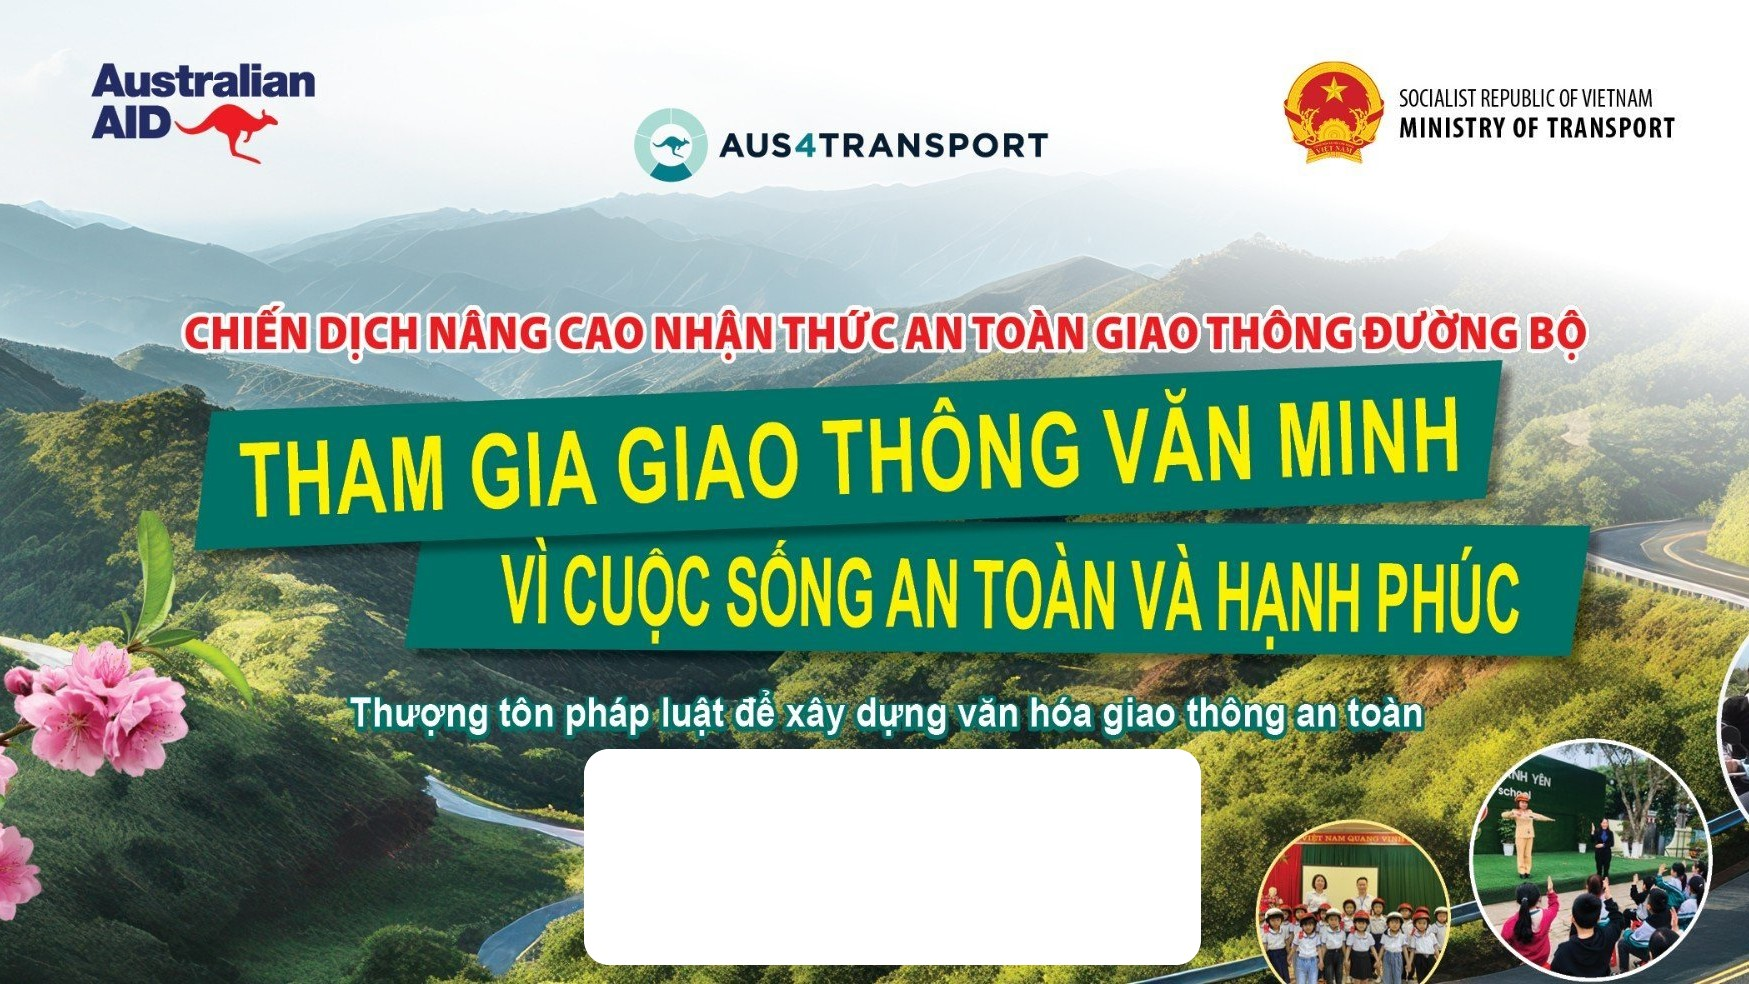
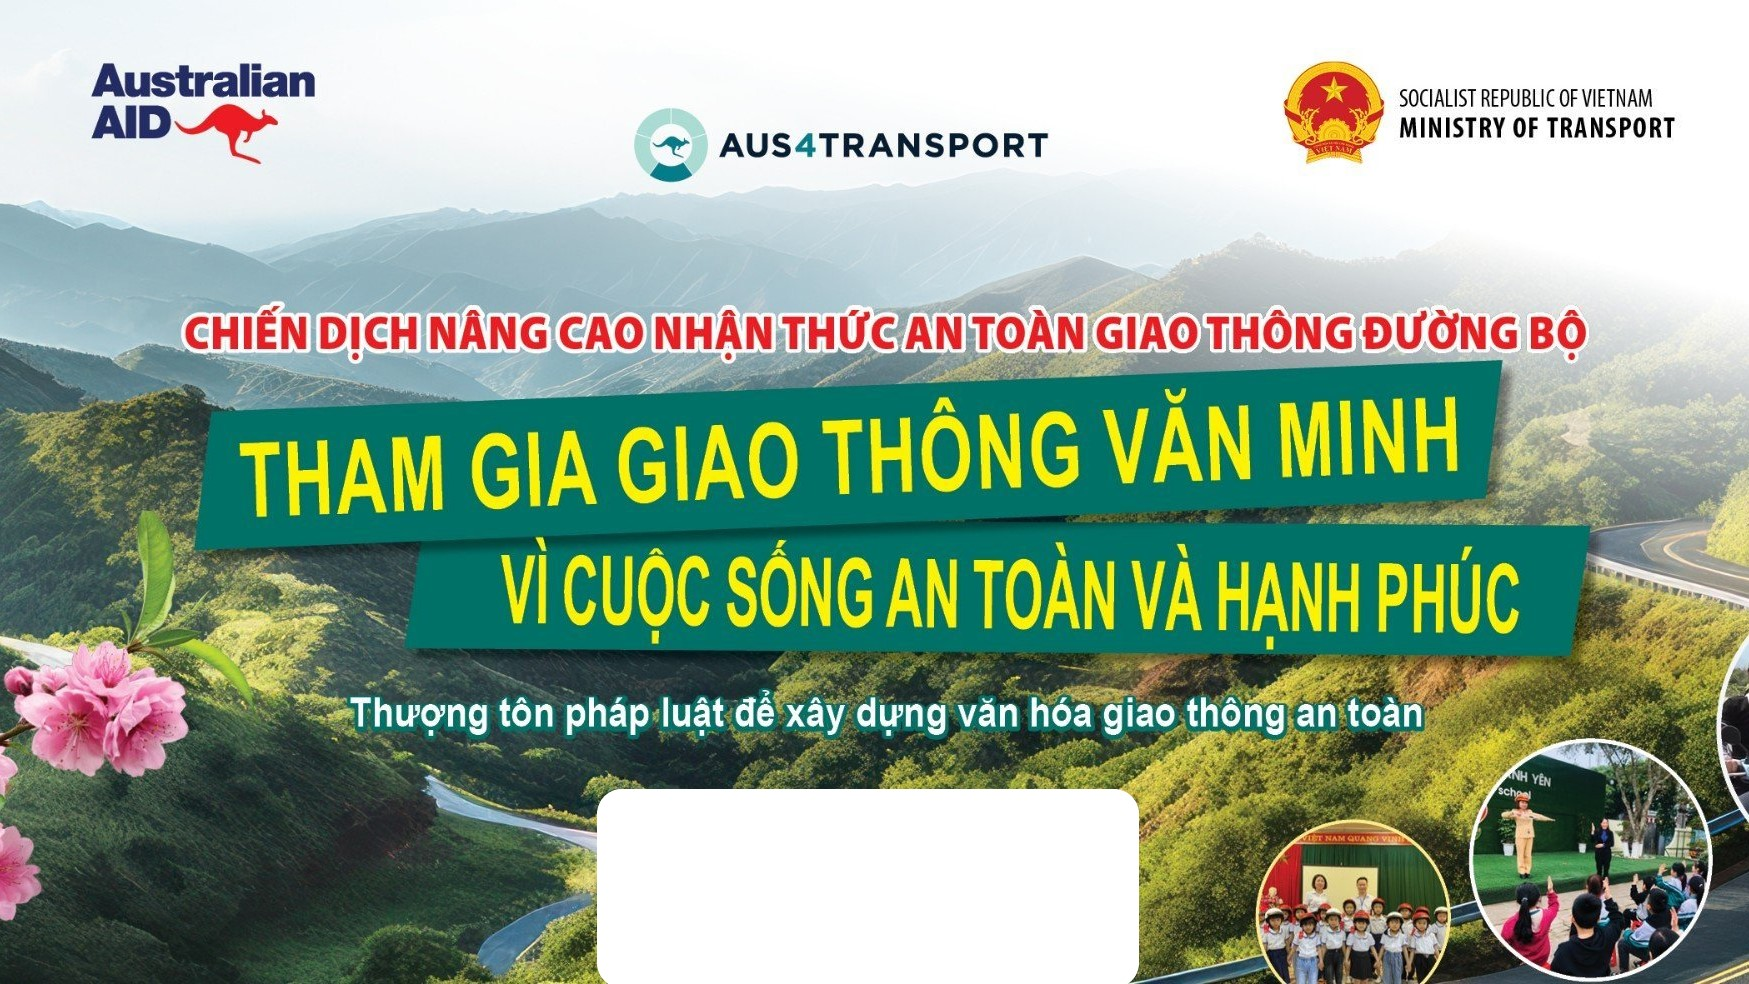
Fixed

Changed region(s): [[0.3087, 0.7622, 0.7101, 1.0]]

diff --git a/style.css b/style.css
@@ -52,10 +52,11 @@ h1 {
     position: absolute;
     width: 60%;
     min-width: 300px;
-    bottom: 20px;
+    bottom: 0;
     left: 50%;
-    transform: translate(-50%, 0);
-    padding-top: 50px;
+    transform: translate(-50%, 20px);
+    padding: 0;
+    margin: 0;
     z-index: 10;
 }
 
